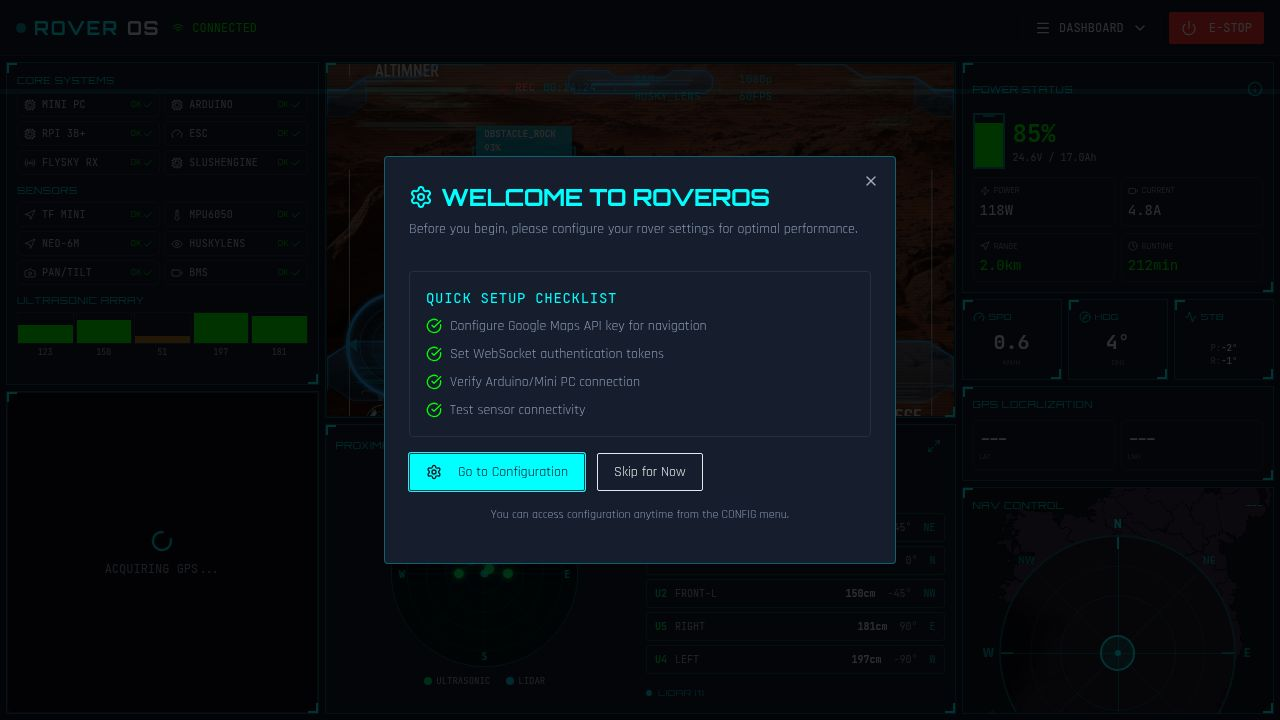
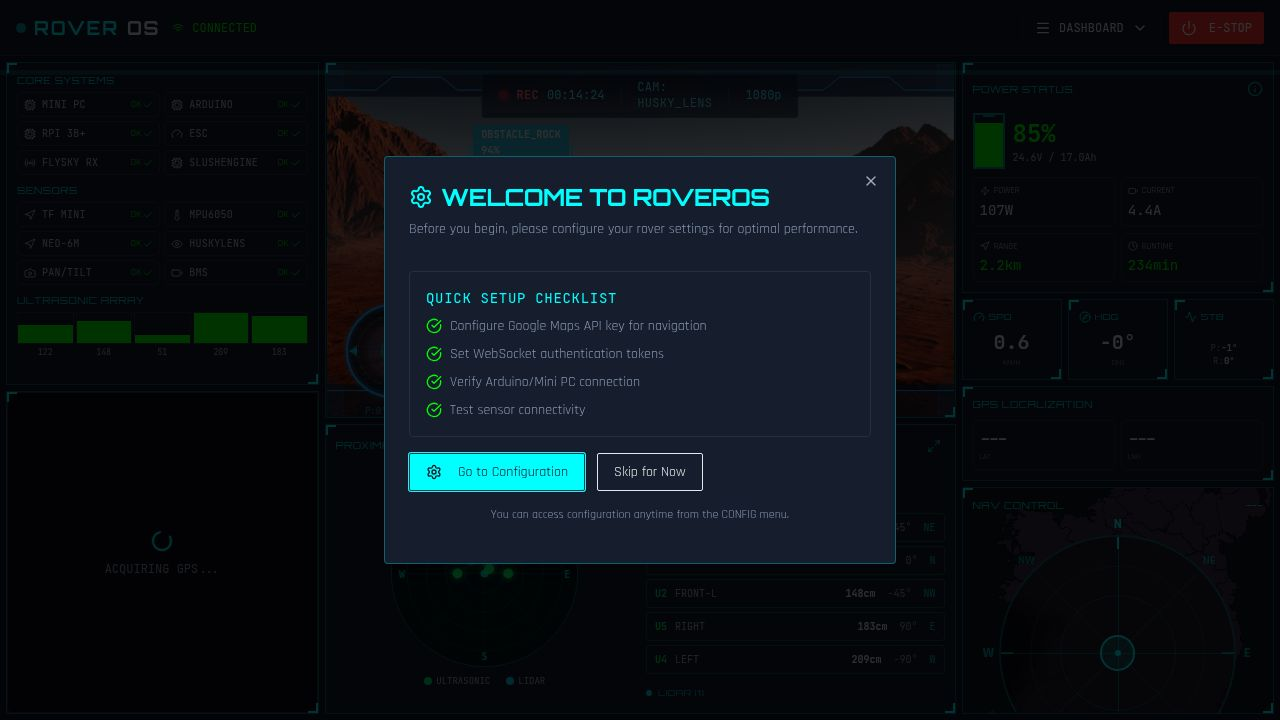
Update HUD overlay to match Halo design with SVG elements
Replaces the old image-based HUD overlay with a new SVG implementation, removing the unused `useEffect` import and refactoring the `HaloHudOverlay` component to align with the Halo design specifications, including static concentric rings and a crosshair.

Replit-Commit-Author: Agent
Replit-Commit-Session-Id: 67529002-f5cf-46ac-a0ae-7a74fd99f252
Replit-Commit-Checkpoint-Type: intermediate_checkpoint
Replit-Commit-Event-Id: 2693a77f-b391-467d-9753-5239a6f4e66f
Replit-Commit-Screenshot-Url: https://storage.googleapis.com/screenshot-production-us-central1/9b4fc033-f0b9-4851-a2bf-8089906dc1e5/67529002-f5cf-46ac-a0ae-7a74fd99f252/9XrL9Ed
Replit-Helium-Checkpoint-Created: true

diff --git a/client/src/components/HaloHudOverlay.tsx b/client/src/components/HaloHudOverlay.tsx
@@ -1,8 +1,7 @@
-import { useState, useEffect } from 'react';
+import { useState } from 'react';
 import { motion } from 'framer-motion';
 import { RotateCcw } from 'lucide-react';
 import { useWebSocket } from '@/lib/useWebSocket';
-import haloHudImage from '@assets/halo-3-hud-transparent-clipart_1767566055231.png';
 
 interface HaloHudOverlayProps {
   recordingTime: number;
@@ -28,30 +27,186 @@ export function HaloHudOverlay({ recordingTime, detectedObjects, isDemoMode }: H
 
   return (
     <div className="absolute inset-0 pointer-events-none overflow-hidden">
-      <img 
-        src={haloHudImage} 
-        alt="" 
-        className="absolute inset-0 w-full h-full object-cover"
-        style={{ opacity: 0.9 }}
-      />
+      <svg 
+        className="absolute inset-0 w-full h-full" 
+        viewBox="0 0 1920 1080" 
+        preserveAspectRatio="xMidYMid slice"
+      >
+        <defs>
+          <filter id="hudGlow">
+            <feGaussianBlur stdDeviation="2" result="blur"/>
+            <feMerge>
+              <feMergeNode in="blur"/>
+              <feMergeNode in="SourceGraphic"/>
+            </feMerge>
+          </filter>
+          <filter id="hudGlowStrong">
+            <feGaussianBlur stdDeviation="4" result="blur"/>
+            <feMerge>
+              <feMergeNode in="blur"/>
+              <feMergeNode in="SourceGraphic"/>
+            </feMerge>
+          </filter>
+          <linearGradient id="lineGradient" x1="0%" y1="0%" x2="100%" y2="0%">
+            <stop offset="0%" stopColor="#25A8FF" stopOpacity="0.3" />
+            <stop offset="50%" stopColor="#25A8FF" stopOpacity="1" />
+            <stop offset="100%" stopColor="#25A8FF" stopOpacity="0.3" />
+          </linearGradient>
+        </defs>
 
-      <div className="absolute top-[3%] left-1/2 -translate-x-1/2 pointer-events-auto">
-        <div className="flex items-center gap-3 text-[10px] font-mono">
-          <div className="flex items-center gap-1.5">
-            <div className="w-2 h-2 rounded-full bg-red-500 animate-pulse shadow-[0_0_6px_rgba(239,68,68,0.8)]" />
-            <span className="text-red-400 font-bold">REC</span>
-            <span className="text-cyan-300">{formatTime(recordingTime)}</span>
+        <rect x="0" y="0" width="1920" height="100" fill="rgba(10, 25, 47, 0.7)" />
+        
+        <path
+          d="M 0 80 L 150 80 L 200 40 L 350 40 L 400 80 L 600 80"
+          fill="none"
+          stroke="#25A8FF"
+          strokeWidth="2"
+          filter="url(#hudGlow)"
+        />
+        <path
+          d="M 1920 80 L 1770 80 L 1720 40 L 1570 40 L 1520 80 L 1320 80"
+          fill="none"
+          stroke="#25A8FF"
+          strokeWidth="2"
+          filter="url(#hudGlow)"
+        />
+        
+        <path
+          d="M 600 80 L 650 50 L 750 50 L 780 25"
+          fill="none"
+          stroke="#25A8FF"
+          strokeWidth="1.5"
+          strokeOpacity="0.7"
+        />
+        <path
+          d="M 1320 80 L 1270 50 L 1170 50 L 1140 25"
+          fill="none"
+          stroke="#25A8FF"
+          strokeWidth="1.5"
+          strokeOpacity="0.7"
+        />
+        
+        <path
+          d="M 780 25 L 850 25 L 880 10 L 960 10"
+          fill="none"
+          stroke="#25A8FF"
+          strokeWidth="1"
+          strokeOpacity="0.5"
+        />
+        <path
+          d="M 1140 25 L 1070 25 L 1040 10 L 960 10"
+          fill="none"
+          stroke="#25A8FF"
+          strokeWidth="1"
+          strokeOpacity="0.5"
+        />
+        
+        <polygon
+          points="0,0 0,120 30,120 50,90 50,0"
+          fill="rgba(37, 168, 255, 0.1)"
+          stroke="#25A8FF"
+          strokeWidth="1"
+          strokeOpacity="0.5"
+        />
+        <polygon
+          points="1920,0 1920,120 1890,120 1870,90 1870,0"
+          fill="rgba(37, 168, 255, 0.1)"
+          stroke="#25A8FF"
+          strokeWidth="1"
+          strokeOpacity="0.5"
+        />
+
+        <rect x="0" y="980" width="1920" height="100" fill="rgba(10, 25, 47, 0.7)" />
+        
+        <path
+          d="M 0 1000 L 200 1000 L 280 1040 L 500 1040"
+          fill="none"
+          stroke="#25A8FF"
+          strokeWidth="2"
+          filter="url(#hudGlow)"
+        />
+        <path
+          d="M 1920 1000 L 1720 1000 L 1640 1040 L 1420 1040"
+          fill="none"
+          stroke="#25A8FF"
+          strokeWidth="2"
+          filter="url(#hudGlow)"
+        />
+        
+        <path
+          d="M 500 1040 L 600 1020 L 750 1020 L 850 1050 L 960 1050"
+          fill="none"
+          stroke="#25A8FF"
+          strokeWidth="1.5"
+          strokeOpacity="0.8"
+        />
+        <path
+          d="M 1420 1040 L 1320 1020 L 1170 1020 L 1070 1050 L 960 1050"
+          fill="none"
+          stroke="#25A8FF"
+          strokeWidth="1.5"
+          strokeOpacity="0.8"
+        />
+        
+        <polygon
+          points="0,1080 0,960 30,960 50,990 50,1080"
+          fill="rgba(37, 168, 255, 0.1)"
+          stroke="#25A8FF"
+          strokeWidth="1"
+          strokeOpacity="0.5"
+        />
+        <polygon
+          points="1920,1080 1920,960 1890,960 1870,990 1870,1080"
+          fill="rgba(37, 168, 255, 0.1)"
+          stroke="#25A8FF"
+          strokeWidth="1"
+          strokeOpacity="0.5"
+        />
+
+        <line x1="860" y1="1000" x2="900" y2="1000" stroke="#25A8FF" strokeWidth="1" strokeOpacity="0.6" />
+        <text x="910" y="1005" fill="#25A8FF" fontSize="14" fontFamily="monospace" opacity="0.8">5 MTS</text>
+        
+        <line x1="820" y1="980" x2="870" y2="980" stroke="#25A8FF" strokeWidth="1" strokeOpacity="0.5" />
+        <text x="880" y="985" fill="#25A8FF" fontSize="12" fontFamily="monospace" opacity="0.6">10 MTS</text>
+        
+        <line x1="780" y1="960" x2="840" y2="960" stroke="#25A8FF" strokeWidth="1" strokeOpacity="0.4" />
+        <text x="850" y="965" fill="#25A8FF" fontSize="10" fontFamily="monospace" opacity="0.5">15 MTS</text>
+        
+        <line x1="1060" y1="1000" x2="1020" y2="1000" stroke="#25A8FF" strokeWidth="1" strokeOpacity="0.6" />
+        <line x1="1100" y1="980" x2="1050" y2="980" stroke="#25A8FF" strokeWidth="1" strokeOpacity="0.5" />
+        <line x1="1140" y1="960" x2="1080" y2="960" stroke="#25A8FF" strokeWidth="1" strokeOpacity="0.4" />
+
+        <g filter="url(#hudGlow)">
+          <line x1="930" y1="520" x2="950" y2="540" stroke="#25A8FF" strokeWidth="1.5" />
+          <line x1="990" y1="520" x2="970" y2="540" stroke="#25A8FF" strokeWidth="1.5" />
+          <line x1="930" y1="560" x2="950" y2="540" stroke="#25A8FF" strokeWidth="1.5" />
+          <line x1="990" y1="560" x2="970" y2="540" stroke="#25A8FF" strokeWidth="1.5" />
+          <circle cx="960" cy="540" r="3" fill="none" stroke="#25A8FF" strokeWidth="1" />
+        </g>
+
+        <line x1="0" y1="200" x2="0" y2="400" stroke="#25A8FF" strokeWidth="3" strokeOpacity="0.3" />
+        <line x1="0" y1="680" x2="0" y2="880" stroke="#25A8FF" strokeWidth="3" strokeOpacity="0.3" />
+        <line x1="1920" y1="200" x2="1920" y2="400" stroke="#25A8FF" strokeWidth="3" strokeOpacity="0.3" />
+        <line x1="1920" y1="680" x2="1920" y2="880" stroke="#25A8FF" strokeWidth="3" strokeOpacity="0.3" />
+      </svg>
+
+      <div className="absolute top-2 left-1/2 -translate-x-1/2 pointer-events-auto z-10">
+        <div className="flex items-center gap-4 text-xs font-mono px-4 py-1.5 rounded bg-slate-900/60 backdrop-blur-sm border border-cyan-500/20">
+          <div className="flex items-center gap-2">
+            <div className="w-2.5 h-2.5 rounded-full bg-red-500 animate-pulse shadow-[0_0_8px_rgba(239,68,68,0.8)]" />
+            <span className="text-red-400 font-bold tracking-wide">REC</span>
+            <span className="text-cyan-300 font-medium">{formatTime(recordingTime)}</span>
           </div>
-          <span className="text-cyan-400/40">|</span>
-          <span className="text-cyan-300/90">CAM: HUSKY_LENS</span>
-          <span className="text-cyan-400/40">|</span>
+          <div className="w-px h-4 bg-cyan-500/30" />
+          <span className="text-cyan-300/90 tracking-wide">CAM: HUSKY_LENS</span>
+          <div className="w-px h-4 bg-cyan-500/30" />
           <span className="text-cyan-300/90">1080p</span>
         </div>
       </div>
 
       {isDemoMode && (
-        <div className="absolute top-[3%] right-[8%] bg-cyan-500/20 border border-cyan-400/40 px-2 py-0.5 rounded text-[9px] font-mono text-cyan-300 pointer-events-auto">
-          DEMO
+        <div className="absolute top-2 right-4 bg-cyan-500/20 border border-cyan-400/40 px-3 py-1 rounded text-xs font-mono text-cyan-300 pointer-events-auto backdrop-blur-sm">
+          DEMO MODE
         </div>
       )}
 
@@ -74,18 +229,18 @@ export function HaloHudOverlay({ recordingTime, detectedObjects, isDemoMode }: H
         >
           <div className={`w-full h-full border-2 ${
             obj.type.includes('HAZARD') ? 'border-red-500/80' : 'border-cyan-400/70'
-          }`} style={{ boxShadow: obj.type.includes('HAZARD') ? '0 0 8px rgba(239,68,68,0.5)' : '0 0 8px rgba(103,199,255,0.5)' }}>
-            <div className="absolute -top-1 -left-1 w-2 h-2 border-t-2 border-l-2 border-inherit" />
-            <div className="absolute -top-1 -right-1 w-2 h-2 border-t-2 border-r-2 border-inherit" />
-            <div className="absolute -bottom-1 -left-1 w-2 h-2 border-b-2 border-l-2 border-inherit" />
-            <div className="absolute -bottom-1 -right-1 w-2 h-2 border-b-2 border-r-2 border-inherit" />
+          }`} style={{ boxShadow: obj.type.includes('HAZARD') ? '0 0 10px rgba(239,68,68,0.6)' : '0 0 10px rgba(103,199,255,0.6)' }}>
+            <div className="absolute -top-1 -left-1 w-3 h-3 border-t-2 border-l-2 border-inherit" />
+            <div className="absolute -top-1 -right-1 w-3 h-3 border-t-2 border-r-2 border-inherit" />
+            <div className="absolute -bottom-1 -left-1 w-3 h-3 border-b-2 border-l-2 border-inherit" />
+            <div className="absolute -bottom-1 -right-1 w-3 h-3 border-b-2 border-r-2 border-inherit" />
             
-            <div className={`absolute -top-5 left-0 text-[8px] px-1.5 py-0.5 font-mono font-bold ${
+            <div className={`absolute -top-6 left-0 text-[10px] px-2 py-0.5 font-mono font-bold ${
               obj.type.includes('HAZARD') ? 'bg-red-500/90 text-white' : 'bg-cyan-500/90 text-white'
             }`}>
               {obj.type} {Math.round(obj.confidence)}%
             </div>
-            <div className="absolute -bottom-4 left-0 text-[7px] text-cyan-400/70 font-mono">
+            <div className="absolute -bottom-5 left-0 text-[8px] text-cyan-400/70 font-mono">
               {obj.id}
             </div>
           </div>
@@ -103,14 +258,6 @@ export function CircularCameraControl({ className = '' }: CircularCameraControlP
   const { sendCommand } = useWebSocket();
   const [pan, setPan] = useState(0);
   const [tilt, setTilt] = useState(0);
-  const [sweepAngle, setSweepAngle] = useState(0);
-
-  useEffect(() => {
-    const interval = setInterval(() => {
-      setSweepAngle(prev => (prev + 3) % 360);
-    }, 50);
-    return () => clearInterval(interval);
-  }, []);
 
   const handlePanChange = (newPan: number) => {
     const clampedPan = Math.max(-180, Math.min(180, newPan));
@@ -140,20 +287,21 @@ export function CircularCameraControl({ className = '' }: CircularCameraControlP
     sendCommand({ type: 'command', action: 'CAMERA_CENTER', timestamp: Date.now() });
   };
 
-  const indicatorX = 50 + (pan / 180) * 30;
-  const indicatorY = 50 - (tilt / 90) * 30;
+  const indicatorX = 50 + (pan / 180) * 35;
+  const indicatorY = 50 - (tilt / 90) * 35;
 
   return (
     <div className={`relative pointer-events-auto ${className}`}>
-      <div className="relative w-[90px] h-[90px]">
+      <div className="relative w-[100px] h-[100px]">
         <svg className="absolute inset-0 w-full h-full" viewBox="0 0 100 100">
           <defs>
-            <radialGradient id="radarBg2" cx="50%" cy="50%" r="50%">
-              <stop offset="0%" stopColor="#25A8FF" stopOpacity="0.1" />
-              <stop offset="100%" stopColor="#0D2442" stopOpacity="0.15" />
+            <radialGradient id="cameraControlBg" cx="50%" cy="50%" r="50%">
+              <stop offset="0%" stopColor="#25A8FF" stopOpacity="0.15" />
+              <stop offset="70%" stopColor="#0A192F" stopOpacity="0.4" />
+              <stop offset="100%" stopColor="#0A192F" stopOpacity="0.6" />
             </radialGradient>
-            <filter id="glow2">
-              <feGaussianBlur stdDeviation="1.5" result="blur"/>
+            <filter id="cameraGlow">
+              <feGaussianBlur stdDeviation="2" result="blur"/>
               <feMerge>
                 <feMergeNode in="blur"/>
                 <feMergeNode in="SourceGraphic"/>
@@ -161,72 +309,65 @@ export function CircularCameraControl({ className = '' }: CircularCameraControlP
             </filter>
           </defs>
 
-          <circle cx="50" cy="50" r="44" fill="url(#radarBg2)" stroke="#25A8FF" strokeWidth="2" filter="url(#glow2)" />
-          <circle cx="50" cy="50" r="32" fill="none" stroke="#25A8FF" strokeWidth="0.8" strokeOpacity="0.4" />
-          <circle cx="50" cy="50" r="20" fill="none" stroke="#25A8FF" strokeWidth="0.6" strokeOpacity="0.3" />
+          <circle cx="50" cy="50" r="46" fill="url(#cameraControlBg)" stroke="#25A8FF" strokeWidth="2" filter="url(#cameraGlow)" />
+          <circle cx="50" cy="50" r="35" fill="none" stroke="#25A8FF" strokeWidth="0.8" strokeOpacity="0.4" />
+          <circle cx="50" cy="50" r="24" fill="none" stroke="#25A8FF" strokeWidth="0.6" strokeOpacity="0.3" />
 
-          <line x1="50" y1="6" x2="50" y2="94" stroke="#25A8FF" strokeWidth="0.4" strokeOpacity="0.3" />
-          <line x1="6" y1="50" x2="94" y2="50" stroke="#25A8FF" strokeWidth="0.4" strokeOpacity="0.3" />
+          <line x1="50" y1="6" x2="50" y2="94" stroke="#25A8FF" strokeWidth="0.8" strokeOpacity="0.4" />
+          <line x1="6" y1="50" x2="94" y2="50" stroke="#25A8FF" strokeWidth="0.8" strokeOpacity="0.4" />
 
-          <line 
-            x1="50" 
-            y1="50" 
-            x2={50 + 40 * Math.sin(sweepAngle * Math.PI / 180)} 
-            y2={50 - 40 * Math.cos(sweepAngle * Math.PI / 180)} 
-            stroke="#67C7FF" 
-            strokeWidth="1.5" 
-            strokeOpacity="0.7"
-            filter="url(#glow2)"
-          />
+          <polygon points="50,8 47,16 53,16" fill="#67C7FF" opacity="0.9" />
+          <polygon points="50,92 47,84 53,84" fill="#67C7FF" opacity="0.9" />
+          <polygon points="8,50 16,47 16,53" fill="#67C7FF" opacity="0.9" />
+          <polygon points="92,50 84,47 84,53" fill="#67C7FF" opacity="0.9" />
 
-          <polygon points="50,8 47,15 53,15" fill="#67C7FF" />
-
-          <circle cx={indicatorX} cy={indicatorY} r="4" fill="#25A8FF" filter="url(#glow2)" />
+          <circle cx={indicatorX} cy={indicatorY} r="6" fill="#25A8FF" fillOpacity="0.3" filter="url(#cameraGlow)" />
+          <circle cx={indicatorX} cy={indicatorY} r="4" fill="#25A8FF" />
           <circle cx={indicatorX} cy={indicatorY} r="2" fill="#67C7FF" />
         </svg>
 
         <button
           onClick={() => handleTiltChange(tilt + 15)}
-          className="absolute top-0 left-1/2 -translate-x-1/2 w-6 h-4 flex items-center justify-center text-cyan-400/50 hover:text-cyan-400 transition-colors"
+          className="absolute top-0 left-1/2 -translate-x-1/2 w-8 h-5 flex items-center justify-center text-cyan-400/60 hover:text-cyan-400 transition-colors"
           data-testid="button-cam-tilt-up"
         >
-          <svg width="10" height="6" viewBox="0 0 10 6"><path d="M5 0 L10 6 L0 6 Z" fill="currentColor" /></svg>
+          <svg width="12" height="8" viewBox="0 0 12 8"><path d="M6 0 L12 8 L0 8 Z" fill="currentColor" /></svg>
         </button>
 
         <button
           onClick={() => handleTiltChange(tilt - 15)}
-          className="absolute bottom-0 left-1/2 -translate-x-1/2 w-6 h-4 flex items-center justify-center text-cyan-400/50 hover:text-cyan-400 transition-colors"
+          className="absolute bottom-0 left-1/2 -translate-x-1/2 w-8 h-5 flex items-center justify-center text-cyan-400/60 hover:text-cyan-400 transition-colors"
           data-testid="button-cam-tilt-down"
         >
-          <svg width="10" height="6" viewBox="0 0 10 6"><path d="M5 6 L0 0 L10 0 Z" fill="currentColor" /></svg>
+          <svg width="12" height="8" viewBox="0 0 12 8"><path d="M6 8 L0 0 L12 0 Z" fill="currentColor" /></svg>
         </button>
 
         <button
           onClick={() => handlePanChange(pan - 30)}
-          className="absolute left-0 top-1/2 -translate-y-1/2 w-4 h-6 flex items-center justify-center text-cyan-400/50 hover:text-cyan-400 transition-colors"
+          className="absolute left-0 top-1/2 -translate-y-1/2 w-5 h-8 flex items-center justify-center text-cyan-400/60 hover:text-cyan-400 transition-colors"
           data-testid="button-cam-pan-left"
         >
-          <svg width="6" height="10" viewBox="0 0 6 10"><path d="M0 5 L6 0 L6 10 Z" fill="currentColor" /></svg>
+          <svg width="8" height="12" viewBox="0 0 8 12"><path d="M0 6 L8 0 L8 12 Z" fill="currentColor" /></svg>
         </button>
 
         <button
           onClick={() => handlePanChange(pan + 30)}
-          className="absolute right-0 top-1/2 -translate-y-1/2 w-4 h-6 flex items-center justify-center text-cyan-400/50 hover:text-cyan-400 transition-colors"
+          className="absolute right-0 top-1/2 -translate-y-1/2 w-5 h-8 flex items-center justify-center text-cyan-400/60 hover:text-cyan-400 transition-colors"
           data-testid="button-cam-pan-right"
         >
-          <svg width="6" height="10" viewBox="0 0 6 10"><path d="M6 5 L0 0 L0 10 Z" fill="currentColor" /></svg>
+          <svg width="8" height="12" viewBox="0 0 8 12"><path d="M8 6 L0 0 L0 12 Z" fill="currentColor" /></svg>
         </button>
 
         <button
           onClick={handleCenter}
-          className="absolute top-1/2 left-1/2 -translate-x-1/2 -translate-y-1/2 w-5 h-5 rounded-full bg-cyan-500/20 hover:bg-cyan-500/40 flex items-center justify-center transition-colors border border-cyan-400/30"
+          className="absolute top-1/2 left-1/2 -translate-x-1/2 -translate-y-1/2 w-6 h-6 rounded-full bg-cyan-500/20 hover:bg-cyan-500/40 flex items-center justify-center transition-colors border border-cyan-400/40"
           data-testid="button-cam-center"
         >
-          <RotateCcw className="w-2.5 h-2.5 text-cyan-400/80" />
+          <RotateCcw className="w-3 h-3 text-cyan-400" />
         </button>
       </div>
 
-      <div className="absolute -bottom-4 left-1/2 -translate-x-1/2 flex gap-2 text-[8px] font-mono text-cyan-400/60">
+      <div className="absolute -bottom-5 left-1/2 -translate-x-1/2 flex gap-3 text-[9px] font-mono text-cyan-400/70 bg-slate-900/50 px-2 py-0.5 rounded backdrop-blur-sm">
         <span>P:{pan}°</span>
         <span>T:{tilt}°</span>
       </div>
